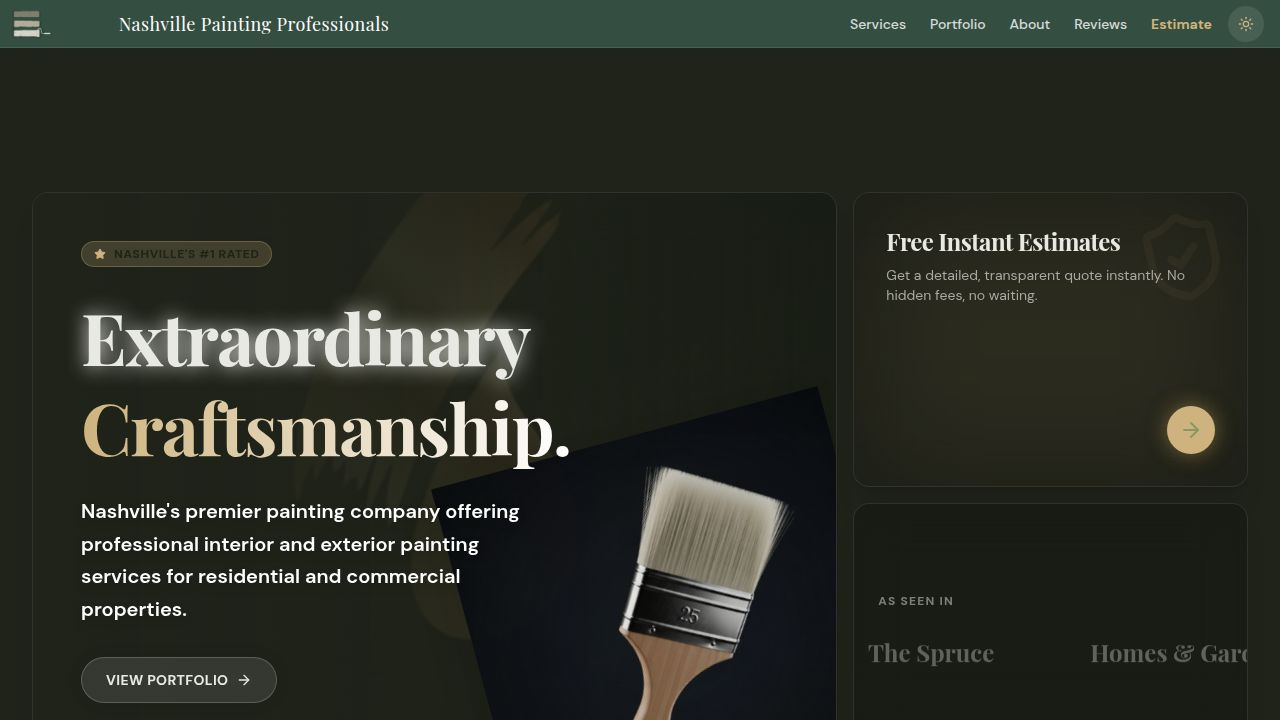
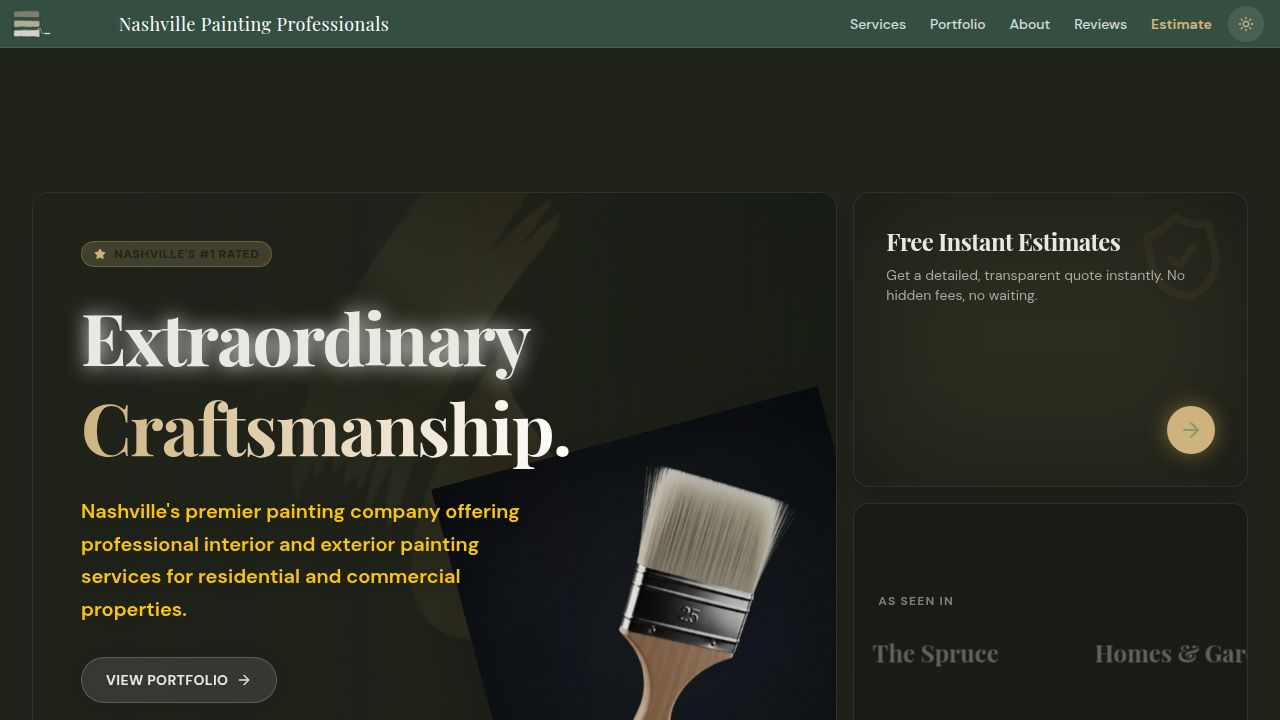
Update homepage text color to cyan to improve readability
Change the descriptive text on the homepage from the accent color to text-cyan-400.

Replit-Commit-Author: Agent
Replit-Commit-Session-Id: 9640b7bd-518e-421e-8382-ba3444a8e185
Replit-Commit-Checkpoint-Type: full_checkpoint
Replit-Commit-Event-Id: 10b22dd8-bfbc-4fcf-8483-070b15e0da25
Replit-Commit-Screenshot-Url: https://storage.googleapis.com/screenshot-production-us-central1/57a1a84c-83d8-41f5-82c5-8661edb484a4/9640b7bd-518e-421e-8382-ba3444a8e185/oCf9iFI
Replit-Helium-Checkpoint-Created: true

Changed region(s): [[0.0625, 0.7028, 0.4062, 0.8556], [0.6562, 0.8861, 0.7812, 0.9472], [0.8438, 0.8861, 0.9688, 0.9167]]

diff --git a/client/src/pages/home.tsx b/client/src/pages/home.tsx
@@ -67,7 +67,7 @@ export default function Home() {
                     Craftsmanship.
                   </span>
                 </h1>
-                <p className="text-base md:text-xl text-accent font-semibold mb-8 max-w-md leading-relaxed drop-shadow-lg">
+                <p className="text-base md:text-xl text-cyan-400 font-semibold mb-8 max-w-md leading-relaxed drop-shadow-lg">
                   {tenant.description || `We don't just paint walls; we curate environments. Experience the highest standard of residential and commercial painting.`}
                 </p>
                 <div className="flex gap-4">
